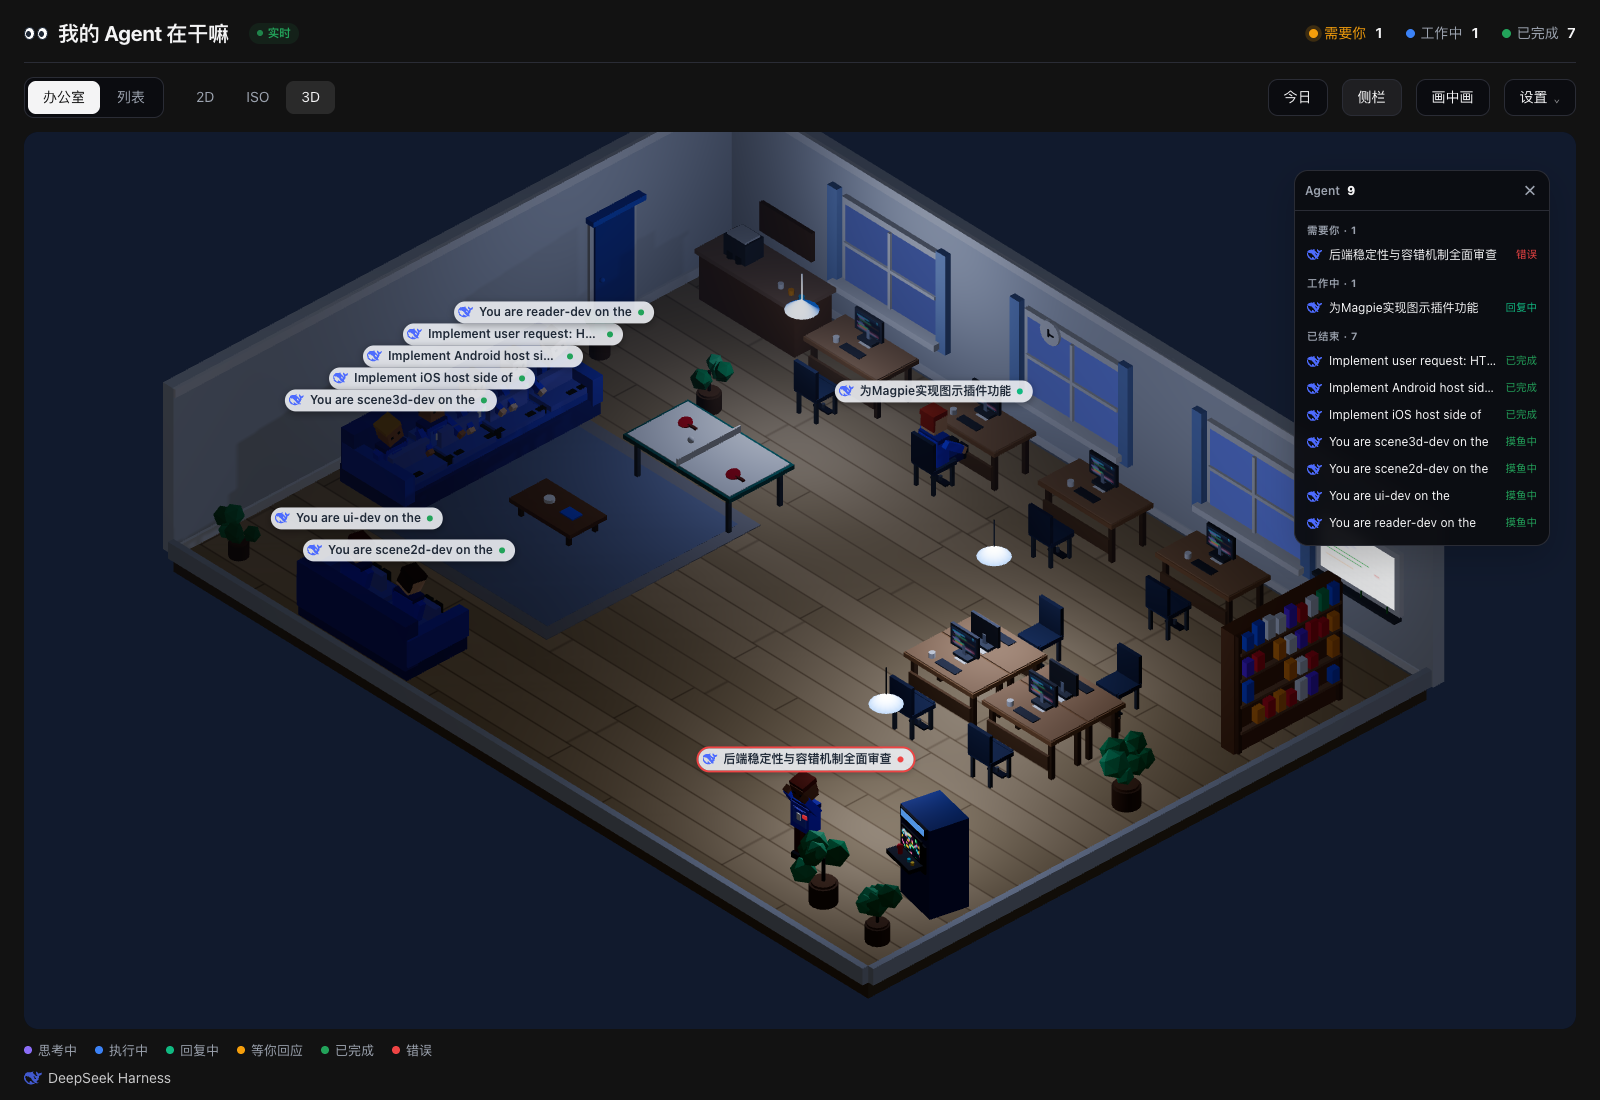
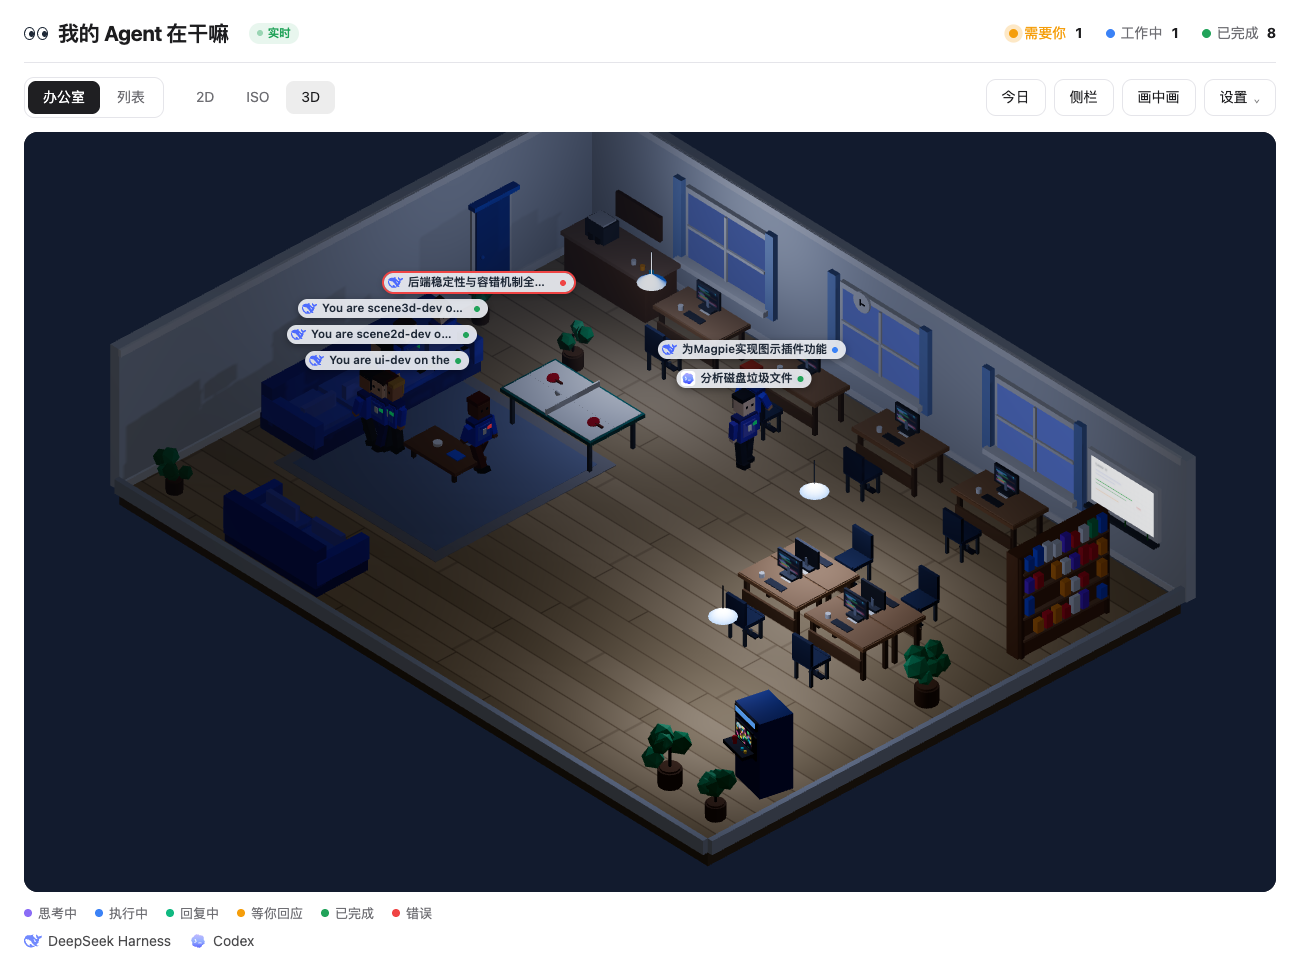
fix: responsive toolbar, no page overflow, readable name tags
- group right-side controls so Settings never wraps alone
- page fills the frame with no outer scrollbar; stage shrinks instead
- clamp and stack tags using their actual laid-out y, not the anchor y
- cap visible 3D tags by priority so they do not become a wall
- default side rail is closed; it opens from the Panel button
- refresh 3D/ISO README screenshots at a realistic magpie width

diff --git a/page/style.css b/page/style.css
@@ -14,13 +14,13 @@
 * { box-sizing: border-box; }
 /* the page paints no background of its own: magpie's shows through, so
    there is never a ring of a different colour at the frame's edge */
-html, body { margin: 0; height: 100%; background: transparent; color: var(--fg); }
+html, body { margin: 0; height: 100%; overflow: hidden; background: transparent; color: var(--fg); }
 /* no card around the page: it meets magpie's own background, so the
    window's inset shows no ring of a different colour */
 body { padding: 18px 24px 12px; font: 13px/1.45 var(--font); }
 button { font: inherit; color: inherit; }
 
-.card { display: flex; flex-direction: column; height: 100%; min-height: 520px; }
+.card { display: flex; flex-direction: column; height: 100%; min-height: 0; }
 body.panel, .card { background: none; }
 .top { display: flex; align-items: center; justify-content: space-between; gap: 12px; flex-wrap: wrap; padding-bottom: 14px; border-bottom: 1px solid var(--line); }
 h1 { display: flex; align-items: center; gap: 10px; margin: 0; font-size: 21px; font-weight: 700; letter-spacing: -.01em; }
@@ -37,9 +37,10 @@ h1 { display: flex; align-items: center; gap: 10px; margin: 0; font-size: 21px; 
 .counts.alert .need i { animation: pulse 1.2s infinite; }
 @keyframes pulse { 50% { box-shadow: 0 0 0 5px rgba(245, 158, 11, .25); } }
 
-.bar { display: flex; align-items: center; gap: 14px; padding: 14px 0; }
-.grow { flex: 1; }
-.note { color: var(--muted); font-size: 12px; }
+.bar { display: flex; align-items: center; flex-wrap: wrap; gap: 8px 14px; padding: 14px 0; }
+.grow { flex: 1; min-width: 0; }
+.tools { display: flex; align-items: center; justify-content: flex-end; flex-wrap: wrap; gap: 8px; margin-left: auto; }
+.note { color: var(--muted); font-size: 12px; min-width: 0; max-width: 240px; overflow: hidden; text-overflow: ellipsis; white-space: nowrap; }
 .seg { display: inline-flex; gap: 2px; padding: 3px; border-radius: 10px; }
 .seg button { border: 0; background: none; padding: 6px 15px; border-radius: 8px; color: var(--muted); font-size: 14px; cursor: pointer; }
 .seg.dark { background: var(--bg); border: 1px solid var(--line); }
@@ -62,12 +63,12 @@ h1 { display: flex; align-items: center; gap: 10px; margin: 0; font-size: 21px; 
 .menu .row.col { flex-direction: column; align-items: flex-start; cursor: default; }
 .menu .row.col:hover { background: none; }
 
-.stage { position: relative; flex: 1; min-height: 340px; border-radius: 14px; overflow: hidden; background: #05070f; }
+.stage { position: relative; flex: 1; min-height: 0; border-radius: 14px; overflow: hidden; background: #05070f; }
 .stage[hidden], .listview[hidden] { display: none; }
 canvas { position: absolute; inset: 0; width: 100%; height: 100%; display: block; }
 canvas[hidden] { display: none; }
 .tags { position: absolute; inset: 0; pointer-events: none; }
-.tag { position: absolute; left: 0; top: 0; pointer-events: auto; display: inline-flex; align-items: center; gap: 6px; max-width: 220px; padding: 3px 10px 3px 4px; border: 0; border-radius: 999px; background: rgba(236, 238, 243, .9); color: #1f2937; font: 600 12px/1.3 var(--font); box-shadow: 0 2px 8px rgba(0, 0, 0, .35); cursor: pointer; white-space: nowrap; will-change: transform; transition: background .12s, box-shadow .12s; }
+.tag { position: absolute; left: 0; top: 0; pointer-events: auto; display: inline-flex; align-items: center; gap: 5px; max-width: 190px; padding: 2px 8px 2px 4px; border: 0; border-radius: 999px; background: rgba(236, 238, 243, .92); color: #1f2937; font: 600 11.5px/1.3 var(--font); box-shadow: 0 2px 8px rgba(0, 0, 0, .35); cursor: pointer; white-space: nowrap; will-change: transform; transition: background .12s, box-shadow .12s; }
 .tag[hidden] { display: none; } /* the rule above would otherwise show it */
 .tag .mark { flex: none; }
 .tag .tn { overflow: hidden; text-overflow: ellipsis; }
@@ -233,6 +234,13 @@ tr.group:hover td { background: var(--bg); }
 .toast .tn b { display: block; font-size: 12.5px; }
 .toast .tn span { display: block; color: var(--muted); font-size: 11.5px; overflow: hidden; text-overflow: ellipsis; white-space: nowrap; }
 @keyframes toast-in { from { opacity: 0; transform: translateY(8px); } }
+
+@media (max-width: 1100px) {
+  .tools { width: 100%; margin-left: 0; justify-content: flex-end; }
+  .note { display: none; }
+  .seg button { padding: 6px 11px; font-size: 13px; }
+  .btn { padding: 6px 11px; font-size: 13px; }
+}
 
 @media (max-width: 720px) {
   body { padding: 8px; }

diff --git a/page/app.js b/page/app.js
@@ -37,7 +37,7 @@
     showSub: opts.showSub !== false,
     showIdle: opts.showIdle !== false,
     agents: Array.isArray(opts.agents) ? opts.agents.filter((x) => typeof x === "string") : [],
-    side: opts.side !== false,
+    side: opts.side === true,
     cleared: opts.cleared && typeof opts.cleared === "object" && !Array.isArray(opts.cleared) ? { ...opts.cleared } : {},
   }
   let manualLang = opts.lang === "auto" || M.LANG_NAMES[opts.lang] ? opts.lang : "auto"
@@ -207,23 +207,40 @@
       if (!e._w) e._w = e.offsetWidth || 90
       shown.push({ e, p })
     }
-    // two tags that would sit on each other are stacked, the lower one first
-    shown.sort((a, b) => a.p.y - b.p.y || a.p.x - b.p.x)
+    // with many agents the office can hold more name tags than it can show
+    // without turning into a wall of labels: keep the ones that need you,
+    // are working, are selected/hovered, then the rest by recency
+    const box = $("tags")
+    const W = box?.clientWidth || 0
+    const limit = floatHome ? 4 : W < 850 ? 4 : W < 1100 ? 5 : W < 1500 ? 6 : 8
+    const rank = new Map()
+    for (const a of state.list) {
+      const r = a.key === state.open || a.key === state.hover ? 0
+        : a.status === "waiting" || a.status === "error" ? 1
+        : a.status === "thinking" || a.status === "executing" || a.status === "replying" ? 2
+        : 3
+      rank.set(a.key, r)
+    }
+    shown.sort((a, b) => (rank.get(a.p.key) ?? 3) - (rank.get(b.p.key) ?? 3) || b.p.y - a.p.y)
+    const keep = shown.slice(0, limit)
+    keep.sort((a, b) => a.p.y - b.p.y || a.p.x - b.p.x)
     const placed = []
-    const H = 24
-    for (const it of shown) {
+    const H = 26
+    for (const it of keep) {
       let y = it.p.y
-      for (let pass = 0; pass < 6; pass++) {
+      for (let pass = 0; pass < 40; pass++) {
         const hit = placed.find((q) => Math.abs(q.x - it.p.x) < (q.w + it.e._w) / 2 + 4 && Math.abs(q.y - y) < H)
         if (!hit) break
         y = hit.y - H
       }
-      it.y = y
-      placed.push({ x: it.p.x, y, w: it.e._w })
+      it.y = Math.max(H, y)
+      const half = (it.e._w || 90) / 2
+      it.x = W ? Math.max(half + 6, Math.min(W - half - 6, it.p.x)) : it.p.x
+      placed.push({ x: it.x, y: it.y, w: it.e._w })
     }
-    for (const it of shown) {
+    for (const it of keep) {
       seen.add(it.p.key)
-      const tf = `translate(${Math.round(it.p.x)}px, ${Math.round(it.p.y)}px) translate(-50%, -100%)`
+      const tf = `translate(${Math.round(it.x)}px, ${Math.round(it.y)}px) translate(-50%, -100%)`
       if (it.e.style.transform !== tf) it.e.style.transform = tf
     }
     for (const [k, e] of tags) {

diff --git a/page/model.js b/page/model.js
@@ -286,7 +286,7 @@
   const HIDE = { "1h": 3600e3, "6h": 6 * 3600e3, "24h": 24 * 3600e3, never: Infinity }
   const DEFAULTS = {
     mode: "office", dim: "3d", scene: "office", quality: "medium", demo: false, showDone: true,
-    hideAfter: "6h", approvalAfterSec: 90, agents: [], showSub: true, showIdle: true, side: true,
+    hideAfter: "6h", approvalAfterSec: 90, agents: [], showSub: true, showIdle: true, side: false,
     lang: "auto", progress: true, text: true, cleared: {},
   }
   // a turn whose file hasn't moved this long has made no progress

diff --git a/page/index.html b/page/index.html
@@ -36,6 +36,7 @@
     </div>
     <span class="note" id="note"></span>
     <span class="grow"></span>
+    <div class="tools">
     <div class="menu-wrap">
       <button type="button" class="btn" id="todayBtn" aria-haspopup="true" aria-expanded="false"><span data-t="today">Today</span> <span class="today-tokens" id="todayTokens"></span></button>
       <div class="menu today-panel" id="todayMenu" hidden></div>
@@ -80,6 +81,7 @@
           </div>
         </div>
       </div>
+    </div>
     </div>
   </nav>
   <section class="stage" id="stage">
